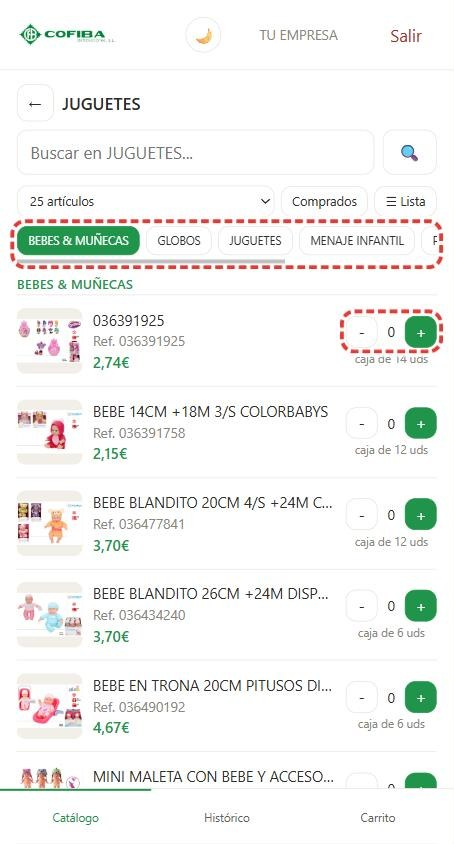
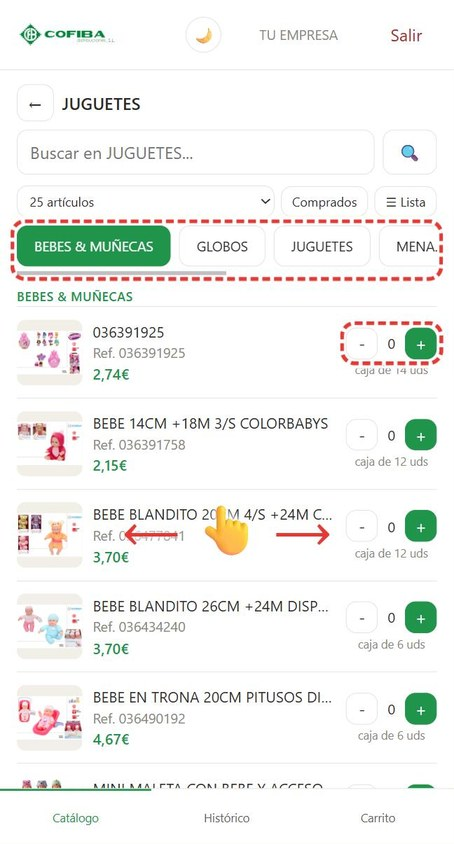
Escáner: recuadro centrado, lector nativo, varias pasadas por turnos y búsqueda instantánea por código
- Recuadro centrado y apaisado (arriba obligaba a apuntar raro y fallaba al centrar).
- BarcodeDetector nativo cuando existe (Android/Chrome); si no, zxing con 4 pasadas por turnos: franja 960px, 640px con contraste, retícula a resolución completa (códigos diminutos), 360px con contraste (desenfocados). Contraste hecho a mano (ctx.filter no está en todos los Safari).
- EAN/UPC se aceptan a la primera (llevan dígito de control); Code128/39 siguen pidiendo dos lecturas.
- Bucle sin solaparse (antes setInterval amontonaba análisis) y botón de linterna si la cámara la tiene.
- /api/codigo: coincidencia exacta en el índice, al momento (antes cada lectura esperaba la búsqueda en vivo de cofiba.es ~1s). Medido con cámara simulada: de 1,1-1,5s a 0,1-0,3s por código.
- Instrucciones: fotos del escáner y de la categoría actualizadas, texto del escáner con el recuadro del centro y la linterna.

diff --git a/client/src/components/BarcodeScanner.jsx b/client/src/components/BarcodeScanner.jsx
@@ -33,8 +33,8 @@ const MENSAJE_MS = 2200;
 // abajo) — ambos avisos de texto se anclan a sus bordes en vez de ir
 // centrados en toda la pantalla, así queda claro que hablan de lo que se
 // acaba de leer justo ahí, no de la cámara en general.
-const RETICULA_TOP = '9%'; // arriba del todo (petición del usuario), dejando sitio para el nombre de lo capturado
-const RETICULA_BOTTOM = '56%'; // distancia al borde inferior: el recuadro ocupa del 9% al 44% del visor
+const RETICULA_TOP = '35%'; // centrado en el visor y apaisado (forma de código de barras)
+const RETICULA_BOTTOM = '35%'; // distancia al borde inferior: el recuadro ocupa del 35% al 65%
 
 // El precio llega ya formateado del servidor como texto con coma decimal
 // (p. ej. "5,28"), igual que en Productos.jsx/Busqueda.jsx — Number(n) lo
@@ -109,6 +109,8 @@ export default function BarcodeScanner({ onCerrar, onCartChanged }) {
   const [mensaje, setMensaje] = useState(null);
   const [error, setError] = useState(null);
   const [confirmando, setConfirmando] = useState(false);
+  const [pistaLinterna, setPistaLinterna] = useState(null);
+  const [linterna, setLinterna] = useState(false);
   const [eleccion, setEleccion] = useState(null); // { codigo, opciones } si un EAN es de varios productos
   const videoRef = useRef(null);
   const controlsRef = useRef(null);
@@ -166,8 +168,11 @@ export default function BarcodeScanner({ onCerrar, onCartChanged }) {
 
   function procesarCodigo(codigo) {
     procesandoRef.current = true;
+    // Primero el catálogo guardado (instantáneo); si no está ahí, la
+    // búsqueda normal, que también pregunta a cofiba.es en directo.
     api
-      .buscar(codigo)
+      .porCodigo(codigo)
+      .then((data) => (data.resultados?.length ? data : api.buscar(codigo)))
       .then((data) => {
         // Coincidencia EXACTA por EAN, referencia o código (la búsqueda por
         // texto también devuelve parecidos, que no valen aquí).
@@ -211,7 +216,6 @@ export default function BarcodeScanner({ onCerrar, onCartChanged }) {
     if (fase !== 'camara') return undefined;
     let activo = true;
     let stream = null;
-    let temporizador = null;
     const hints = new Map([
       [DecodeHintType.POSSIBLE_FORMATS, FORMATOS],
       [DecodeHintType.TRY_HARDER, true],
@@ -233,12 +237,71 @@ export default function BarcodeScanner({ onCerrar, onCartChanged }) {
       procesarCodigo(codigo);
     }
 
-    // Solo se descodifica lo que hay DENTRO de la retícula (no el fotograma
-    // entero): en una estantería, leer la imagen completa cogía a veces el
-    // código del producto de al lado.
-    function leerFotograma() {
-      const video = videoRef.current;
-      if (!activo || !video || video.readyState < 2 || !video.videoWidth) return;
+    // Lector NATIVO del móvil (Android/Chrome: BarcodeDetector) si existe —
+    // mucho más rápido y certero que zxing; si no (iPhone), zxing.
+    let detector = null;
+    if ('BarcodeDetector' in window) {
+      window.BarcodeDetector.getSupportedFormats?.()
+        .then((formatos) => {
+          const queremos = ['ean_13', 'ean_8', 'upc_a', 'upc_e', 'code_128', 'code_39'].filter((f) => formatos.includes(f));
+          if (queremos.includes('ean_13')) detector = new window.BarcodeDetector({ formats: queremos });
+        })
+        .catch(() => {});
+    }
+    // EAN/UPC traen dígito de control (el lector ya lo comprueba): basta UNA
+    // lectura. Code128/39 de etiquetas internas no siempre: esas sí piden
+    // dos lecturas iguales seguidas antes de aceptarlas.
+    const CON_CONTROL_ZXING = new Set([BarcodeFormat.EAN_13, BarcodeFormat.EAN_8, BarcodeFormat.UPC_A, BarcodeFormat.UPC_E]);
+    const CON_CONTROL_NATIVO = new Set(['ean_13', 'ean_8', 'upc_a', 'upc_e']);
+
+    function resultado(codigo, fiable) {
+      if (!codigo) return;
+      if (fiable) {
+        candidato = { codigo: null, veces: 0, cuando: 0 };
+        aceptar(codigo);
+        return;
+      }
+      const ahora = Date.now();
+      candidato =
+        codigo === candidato.codigo && ahora - candidato.cuando < 1500
+          ? { codigo, veces: candidato.veces + 1, cuando: ahora }
+          : { codigo, veces: 1, cuando: ahora };
+      if (candidato.veces >= LECTURAS_IGUALES) {
+        candidato = { codigo: null, veces: 0, cuando: 0 };
+        aceptar(codigo);
+      }
+    }
+
+    // Cada fotograma se analiza de UNA de estas maneras, por turnos (medido
+    // con códigos de prueba: ninguna sola lee todos los casos, juntas sí):
+    //  - franja de la retícula con margen, reducida a 960 px: lo normal;
+    //  - a 640 px con contraste realzado: poca luz/ruido, pequeño y algo
+    //    desenfocado;
+    //  - solo la retícula a resolución completa: códigos diminutos (lejos);
+    //  - muy reducida (360 px) con contraste: muy desenfocado.
+    // Se lee la franja de la retícula y poco más (no la imagen entera: en
+    // una estantería eso cogía el código del producto de al lado).
+    const PASADAS = [
+      { ancho: 960, margen: 0.1, contraste: 0 },
+      { ancho: 640, margen: 0.1, contraste: 3 },
+      { ancho: null, margen: 0, contraste: 0 },
+      { ancho: 360, margen: 0.1, contraste: 2 },
+    ];
+    let turno = 0;
+
+    // Gris + contraste a mano (ctx.filter no existe en todos los Safari).
+    function realzar(k) {
+      const img = ctx.getImageData(0, 0, canvas.width, canvas.height);
+      const d = img.data;
+      for (let i = 0; i < d.length; i += 4) {
+        const g = 0.299 * d[i] + 0.587 * d[i + 1] + 0.114 * d[i + 2];
+        const v = (g - 128) * k + 128;
+        d[i] = d[i + 1] = d[i + 2] = v < 0 ? 0 : v > 255 ? 255 : v;
+      }
+      ctx.putImageData(img, 0, 0);
+    }
+
+    function copiarFranja(video, { ancho, margen }) {
       const vw = video.videoWidth;
       const vh = video.videoHeight;
       const cw = video.clientWidth;
@@ -250,33 +313,63 @@ export default function BarcodeScanner({ onCerrar, onCartChanged }) {
       const offY = (vh * escala - ch) / 2;
       const top = parseFloat(RETICULA_TOP) / 100;
       const bottom = parseFloat(RETICULA_BOTTOM) / 100;
-      // Un poco más ancho que la retícula visible (margen del 4%) para no
-      // cortar las barras de los extremos si el código está justo al borde.
-      const x1 = cw * 0.06, x2 = cw * 0.94;
-      const y1 = ch * (top - 0.04), y2 = ch * (1 - bottom + 0.04);
+      const x1 = cw * (margen ? 0.02 : 0.06), x2 = cw * (margen ? 0.98 : 0.94);
+      const y1 = ch * Math.max(0, top - margen), y2 = ch * Math.min(1, 1 - bottom + margen);
       const sx = (x1 + offX) / escala;
       const sy = (y1 + offY) / escala;
       const sw = (x2 - x1) / escala;
       const sh = (y2 - y1) / escala;
-      canvas.width = Math.round(sw);
-      canvas.height = Math.round(sh);
+      const reduce = ancho ? Math.min(1, ancho / sw) : 1;
+      canvas.width = Math.round(sw * reduce);
+      canvas.height = Math.round(sh * reduce);
       ctx.drawImage(video, sx, sy, sw, sh, 0, 0, canvas.width, canvas.height);
-      let codigo = null;
+    }
+
+    async function leerFotograma() {
+      const video = videoRef.current;
+      if (!activo || !video || video.readyState < 2 || !video.videoWidth) return;
+      turno += 1;
+
+      // Lector nativo (si hay): en todos los fotogramas menos uno de cada
+      // tres, que se deja a zxing por si acaso el nativo no lo pilla.
+      if (detector && turno % 3 !== 0) {
+        copiarFranja(video, PASADAS[0]);
+        try {
+          const encontrados = await detector.detect(canvas);
+          if (encontrados.length) {
+            // Si hay varios, el más cercano al centro (a la línea roja).
+            const cx = canvas.width / 2, cy = canvas.height / 2;
+            const dist = (d) => {
+              const bb = d.boundingBox;
+              return Math.hypot(bb.x + bb.width / 2 - cx, bb.y + bb.height / 2 - cy);
+            };
+            const mejor = encontrados.sort((p, q) => dist(p) - dist(q))[0];
+            resultado(mejor.rawValue, CON_CONTROL_NATIVO.has(mejor.format));
+          }
+        } catch {
+          detector = null; // falla el nativo: se sigue solo con zxing
+        }
+        return;
+      }
+
+      const pasada = PASADAS[turno % PASADAS.length];
+      copiarFranja(video, pasada);
+      if (pasada.contraste) realzar(pasada.contraste);
       try {
-        codigo = reader.decodeFromCanvas(canvas).getText();
+        const r = reader.decodeFromCanvas(canvas);
+        resultado(r.getText(), CON_CONTROL_ZXING.has(r.getBarcodeFormat()));
       } catch {
         // Nada legible en este fotograma.
       }
-      if (!codigo) return;
-      const ahora = Date.now();
-      if (codigo === candidato.codigo && ahora - candidato.cuando < 1500) {
-        candidato = { codigo, veces: candidato.veces + 1, cuando: ahora };
-      } else {
-        candidato = { codigo, veces: 1, cuando: ahora };
-      }
-      if (candidato.veces >= LECTURAS_IGUALES) {
-        candidato = { codigo: null, veces: 0, cuando: 0 };
-        aceptar(codigo);
+    }
+
+    // Bucle sin solaparse: el siguiente fotograma se analiza cuando acaba
+    // el anterior (con setInterval, si un análisis tardaba más que el
+    // intervalo, se amontonaban y el escáner iba a trompicones).
+    async function bucle() {
+      while (activo) {
+        await leerFotograma();
+        await new Promise((r) => setTimeout(r, 50));
       }
     }
 
@@ -312,7 +405,13 @@ export default function BarcodeScanner({ onCerrar, onCartChanged }) {
         // tiene imagen (readyState), y en algún navegador play() tarda o
         // no resuelve nunca.
         video.play().catch(() => {});
-        temporizador = setInterval(leerFotograma, 90);
+        bucle();
+        // Linterna, si la cámara la tiene (para pasillos con poca luz).
+        try {
+          if (pista.getCapabilities?.().torch) setPistaLinterna(pista);
+        } catch {
+          // nada
+        }
       })
       .catch((e) => {
         setError(
@@ -324,7 +423,7 @@ export default function BarcodeScanner({ onCerrar, onCartChanged }) {
 
     controlsRef.current = {
       stop() {
-        clearInterval(temporizador);
+        activo = false;
         stream?.getTracks().forEach((t) => t.stop());
       },
     };
@@ -488,9 +587,23 @@ export default function BarcodeScanner({ onCerrar, onCartChanged }) {
         <p style={{ color: '#fff', margin: 0, fontSize: 14 }}>
           Apunta a un código de barras{capturados.length > 0 ? ` · ${totalUnidades} capturado${totalUnidades === 1 ? '' : 's'}` : ''}
         </p>
-        <button className="danger" onClick={salirDeCamara}>
-          Salir
-        </button>
+        <div style={{ display: 'flex', gap: 8 }}>
+          {pistaLinterna && (
+            <button
+              onClick={() => {
+                const nueva = !linterna;
+                pistaLinterna.applyConstraints({ advanced: [{ torch: nueva }] }).then(() => setLinterna(nueva)).catch(() => {});
+              }}
+              aria-label={linterna ? 'Apagar linterna' : 'Encender linterna'}
+              style={{ background: linterna ? '#ffd60a' : 'rgba(255,255,255,0.15)', color: linterna ? '#000' : '#fff', border: 'none' }}
+            >
+              🔦
+            </button>
+          )}
+          <button className="danger" onClick={salirDeCamara}>
+            Salir
+          </button>
+        </div>
       </div>
 
       {error ? (
@@ -505,7 +618,7 @@ export default function BarcodeScanner({ onCerrar, onCartChanged }) {
           <div
             style={{
               position: 'absolute',
-              inset: `${RETICULA_TOP} 10% ${RETICULA_BOTTOM}`,
+              inset: `${RETICULA_TOP} 6% ${RETICULA_BOTTOM}`,
               border: '2px solid var(--accent)',
               borderRadius: 8,
               boxShadow: '0 0 0 2000px rgba(0,0,0,0.4)',

diff --git a/server/src/index.js b/server/src/index.js
@@ -35,6 +35,7 @@ import {
   marcarActividad,
   sincronizarSubcategoria,
   indiceCompleto,
+  buscarPorCodigo,
 } from './indiceStore.js';
 import { comprasConocidas, resumenGlobal } from './compradosStore.js';
 import { registrarPedido, resumenFacturacion } from './pedidosStore.js';
@@ -626,6 +627,14 @@ app.get('/api/admin/estado', requireAdmin, (req, res) => {
 // bien) — ver indiceStore.js. La primera búsqueda (o la primera después de
 // que el índice caduque) dispara la reconstrucción en segundo plano y
 // devuelve `construyendo: true` mientras tanto.
+// Escáner: busca un código exacto en el índice del catálogo (al momento).
+// Si no está, el cliente prueba después la búsqueda normal (que también
+// pregunta a cofiba.es en directo, más lenta).
+app.get('/api/codigo', requireSession, (req, res) => {
+  const resultados = filtrarDisponibles(marcarComprados(req.usuario, buscarPorCodigo(req.query.c)));
+  res.json({ resultados });
+});
+
 app.get('/api/buscar', requireSession, async (req, res) => {
   const termino = (req.query.q || '').toString().trim();
   if (!termino) return res.json({ construyendo: false, resultados: [] });

diff --git a/server/src/indiceStore.js b/server/src/indiceStore.js
@@ -300,6 +300,16 @@ export function indiceCompleto() {
   return estado === 'listo' && indice.length > 0 && !!actualizado;
 }
 
+// Coincidencia EXACTA por EAN, referencia o código de artículo (para el
+// escáner): instantáneo, sin pasar por la búsqueda por texto ni por
+// cofiba.es.
+export function buscarPorCodigo(codigo) {
+  const c = String(codigo || '').trim();
+  if (!c) return [];
+  const fuente = indiceParcial.length > indice.length ? indiceParcial : indice;
+  return fuente.filter((p) => p.ean === c || p.referencia === c || p.articulo === c);
+}
+
 export function buscarEnIndice(termino) {
   const t = normalizar(termino);
   if (!t) return [];

diff --git a/client/src/components/TutorialViewer.jsx b/client/src/components/TutorialViewer.jsx
@@ -29,7 +29,7 @@ const DIAPOSITIVAS = [
   {
     archivo: '/tutorial/slide-05-escaner.jpg',
     titulo: 'Escanea códigos de barras',
-    texto: 'Pon el código dentro del recuadro de arriba, sobre la línea roja. Puedes escanear varios seguidos. Al terminar, toca Salir.',
+    texto: 'Pon el código dentro del recuadro del centro, sobre la línea roja. Puedes escanear varios seguidos. Con poca luz, toca 🔦. Al terminar, toca Salir.',
   },
   {
     archivo: '/tutorial/slide-06-escaner-revision.jpg',

diff --git a/client/src/api.js b/client/src/api.js
@@ -155,6 +155,10 @@ export const api = {
     }
     return res.blob();
   },
+  // Escáner: coincidencia exacta por EAN/referencia en el catálogo guardado.
+  porCodigo(c) {
+    return request(`/codigo?c=${encodeURIComponent(c)}`).then((d) => conMarcas(d, 'resultados'));
+  },
   buscar(q) {
     return request(`/buscar?q=${encodeURIComponent(q)}`).then((d) => conMarcas(d, 'resultados'));
   },
